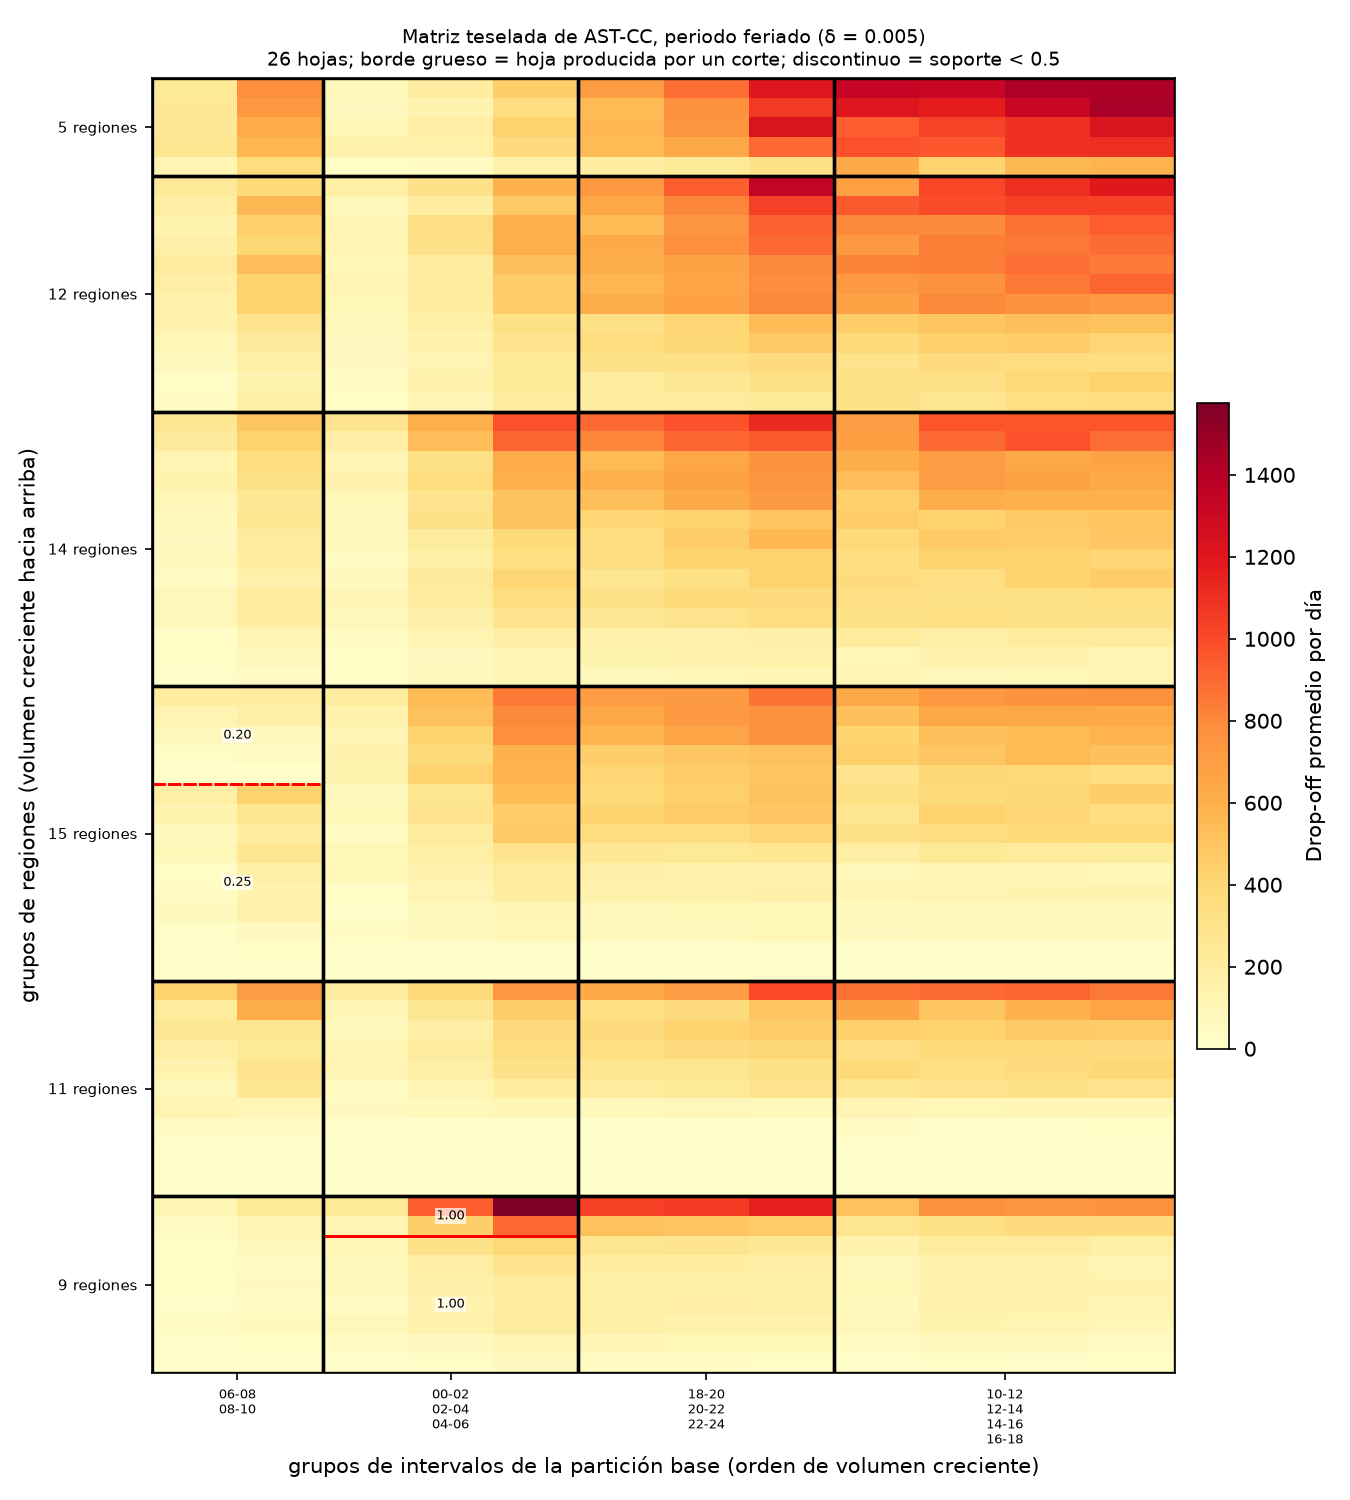
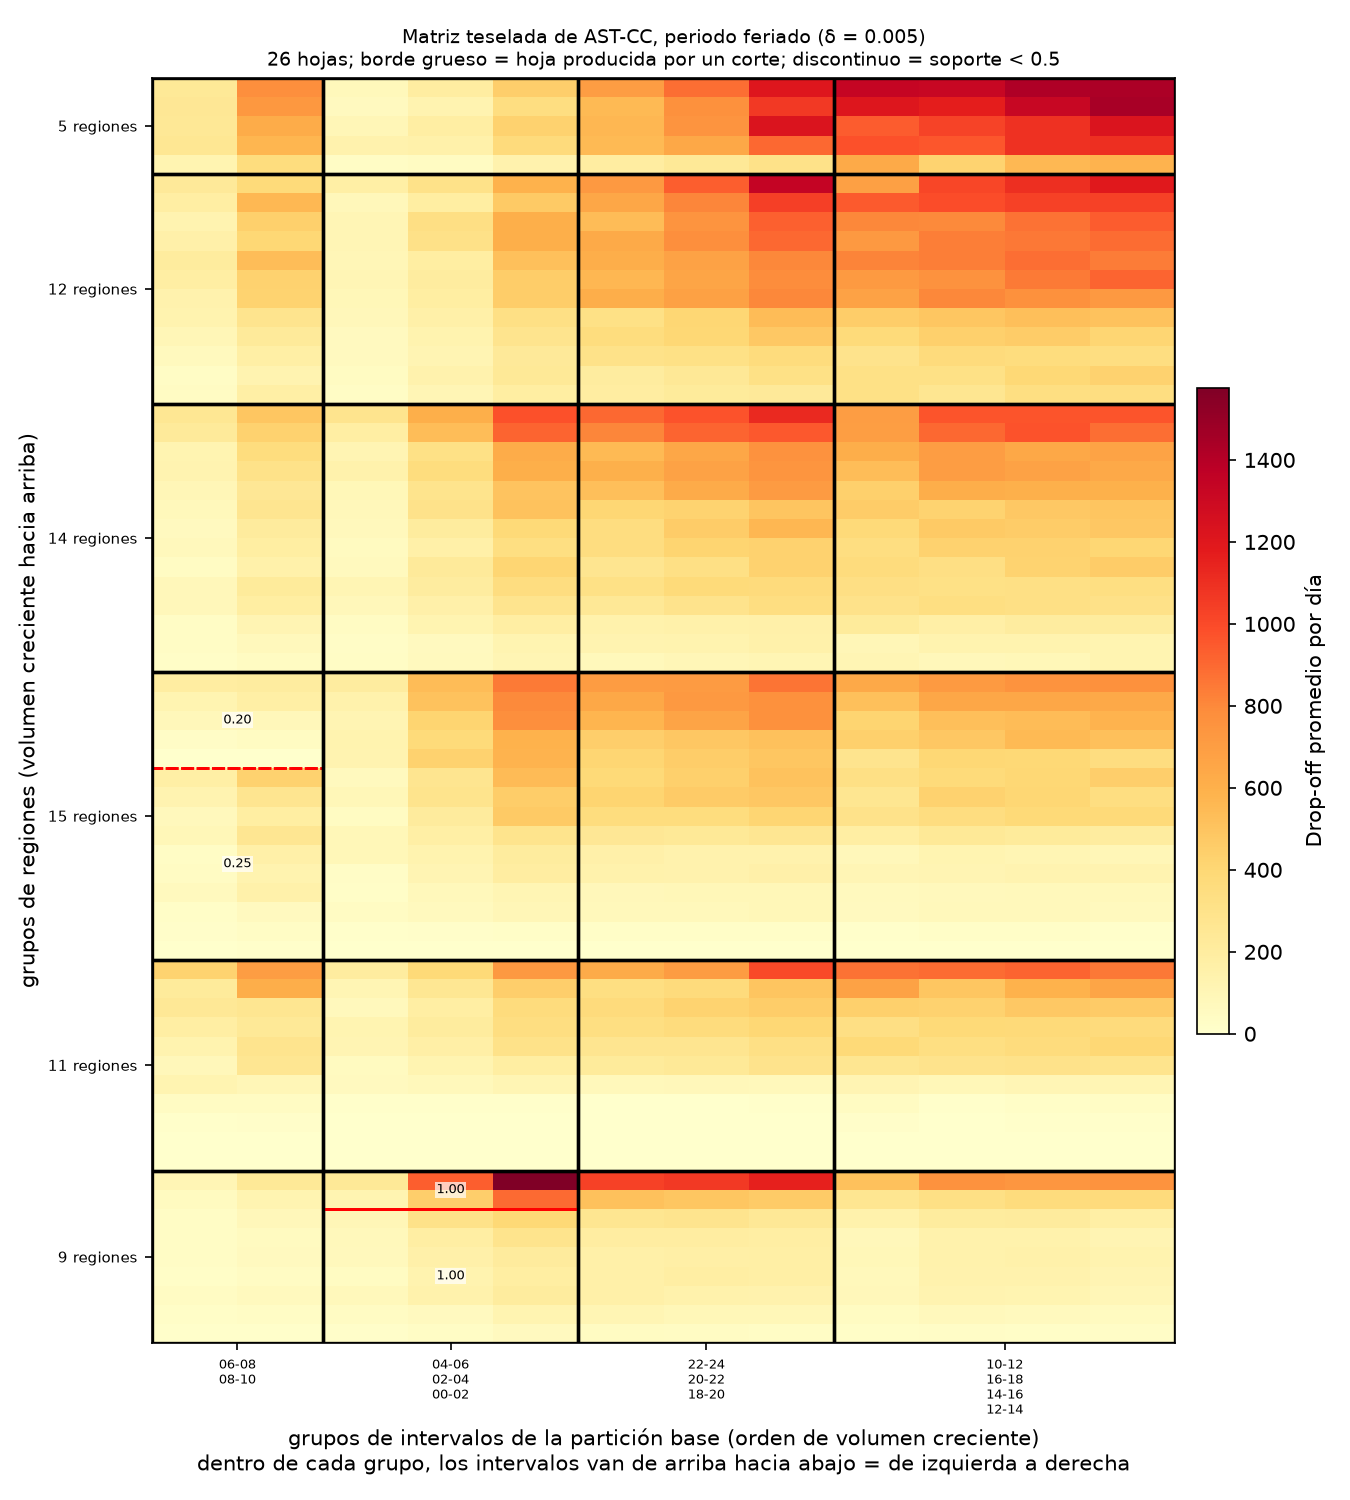
AST-CC/07: etiquetas de intervalos en el orden en que se dibujan las columnas
En la teselada y la figura de actividad, el eje x listaba los intervalos de cada
grupo en orden cronologico, pero las columnas se dibujan ordenadas por volumen, asi
que el rotulo no correspondia a la columna (weekday: un grupo; holiday: tres de
cuatro). columnas_dibujadas devuelve el orden por volumen (o el cronologico si algun
bloque del grupo tiene un corte de columnas, donde el orden no es comun) y el eje
aclara que arriba-abajo equivale a izquierda-derecha. Se regeneran las cuatro figuras;
el resto no cambia.

diff --git a/Implementaciones/AST-CC/07_visualizacion.py b/Implementaciones/AST-CC/07_visualizacion.py
@@ -118,6 +118,18 @@ def disposicion_global(O, rho, tau):
     return orden_g, orden_h, ancho, alto, x_de, y_de
 
 
+def columnas_dibujadas(res, O, tau, h):
+    """Intervalos del grupo base h en el orden en que se dibujan sus columnas: por volumen
+    creciente, como el checkerboard de ST-CC (dentro de cada hoja las columnas se ordenan
+    por su volumen, ver figura_teselada). Si algún bloque del grupo tiene un corte de
+    columnas, los hijos se colocan uno junto al otro y el orden deja de ser común a todos
+    los bloques; en ese caso se devuelve el orden cronológico, que solo indica los miembros."""
+    idx = np.where(tau == h)[0]
+    hay_corte_col = any(n.corte in ("col", "conj") for r in res.raices if tau[r.cols[0]] == h
+                        for n in r.recorrer())
+    return idx if hay_corte_col else idx[np.argsort(O.sum(0)[idx])]
+
+
 def figura_teselada(periodo, res, O, D, rho, tau, soporte, modo):
     """modo = 'datos': dentro de cada hoja, las celdas reales (drop-offs promedio por día,
     la paleta y el orden por volumen del checkerboard de ST-CC, ST-CC/03). modo =
@@ -155,10 +167,12 @@ def figura_teselada(periodo, res, O, D, rho, tau, soporte, modo):
     ax.set_xlim(0, len(tau))
     ax.set_ylim(0, len(rho))
     ax.set_xticks([x_de[h] + ancho[h] / 2 for h in orden_h])
-    ax.set_xticklabels(["\n".join(FRANJAS[j] for j in np.where(tau == h)[0]) for h in orden_h], fontsize=6)
+    ax.set_xticklabels(["\n".join(FRANJAS[j] for j in columnas_dibujadas(res, O, tau, h)) for h in orden_h],
+                       fontsize=6)
     ax.set_yticks([y_de[g] + alto[g] / 2 for g in orden_g])
     ax.set_yticklabels([f"{alto[g]} regiones" for g in orden_g], fontsize=7)
-    ax.set_xlabel("grupos de intervalos de la partición base (orden de volumen creciente)")
+    ax.set_xlabel("grupos de intervalos de la partición base (orden de volumen creciente)\n"
+                  "dentro de cada grupo, los intervalos van de arriba hacia abajo = de izquierda a derecha")
     ax.set_ylabel("grupos de regiones (volumen creciente hacia arriba)")
     nombre = "teselada" if datos else "actividad"
     ax.set_title(f"{'Matriz teselada de AST-CC' if datos else 'Actividad relativa de las hojas de AST-CC'}, "
